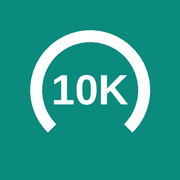
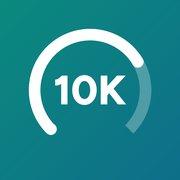
Km seguidos más largos por tramo e icono nuevo
- La tirada más larga cuenta el tramo continuo más largo, no el total con descansos.
- Icono nuevo en el estilo de la app (archivos con nombre nuevo para que se actualice).

Claude-Session: https://claude.ai/code/session_012DkRa5bvT71AFwEtgB1tVc

diff --git a/chica.html b/chica.html
@@ -8,8 +8,8 @@
 <meta name="mobile-web-app-capable" content="yes">
 <meta name="apple-mobile-web-app-status-bar-style" content="default">
 <meta name="theme-color" content="#f3f5f4">
-<link rel="apple-touch-icon" href="icon-180.png">
-<link rel="icon" href="icon-180.png">
+<link rel="apple-touch-icon" href="icon-v3-180.png">
+<link rel="icon" href="icon-v3-180.png">
 <link rel="manifest" href="manifest-chica.webmanifest">
 <script>window.__OCR_LOCAL=true;</script>
 <style>:root{padding-top:env(safe-area-inset-top,0px);padding-bottom:env(safe-area-inset-bottom,0px)}</style>
@@ -631,7 +631,7 @@ function computeStats(C,today){
       if(log.done){
         var km=num(log.km)||I.target, time=num(log.pace)*km;
         S.runs.push({date:s.date,kind:s.kind,slot:s.slot,km:km,time:time,pace:time>0?time/km:0,hr:num(log.hr),easy:isEasy(I.t)});
-        S.kmTot+=km;if(km>S.longest)S.longest=km;
+        S.kmTot+=km;var ck=contKm(log,I);if(ck>S.longest)S.longest=ck;
         if(time>0){S.secTot+=time;S.kmTime+=km;var p=time/km;if(!S.bestPace||p<S.bestPace)S.bestPace=p;}
       }
     }
@@ -643,18 +643,25 @@ function computeStats(C,today){
     if(bs){
       var BI=C.info[bs.id],bl=state.logs[bs.id]||{};
       S.longBase.push(bs.base.km);S.longTarget.push(BI.target);
-      S.longDone.push(bl.done?(num(bl.km)||BI.target):null);
+      S.longDone.push(bl.done?contKm(bl,BI):null);
     }else{S.longBase.push(null);S.longTarget.push(null);S.longDone.push(null);}
   }
   return S;
 }
 
+/* Distancia continua más larga de una carrera: con tramos, el tramo más largo; si no, el total */
+function contKm(log,I){
+  var T=segTotals(log);
+  if(T.n>=2){var mx=0;T.rows.forEach(function(r){if(r.km>mx)mx=r.km;});return mx;}
+  return num(log.km)||(I?I.target:0);
+}
+function contPlanned(I){return BLK[I.t]?BLK[I.t].km:I.target;}
 function readiness(C,today){
   var projBest=0,bestDone=0;
   SESSIONS.forEach(function(s){
     if(s.kind!=='run')return;
     var I=C.info[s.id],log=state.logs[s.id]||{};
-    var km=I.status==='done'?(num(log.km)||I.target):(I.status==='pending'?I.target:0);
+    var km=I.status==='done'?contKm(log,I):(I.status==='pending'?contPlanned(I):0);
     if(km>projBest)projBest=km;
     if(I.status==='done'&&km>bestDone)bestDone=km;
   });
@@ -1088,7 +1095,7 @@ function todayView(C,today){
   var dl=Math.max(0,diffDays(today,RACE)),tot=diffDays(START,RACE);
   h+='<div class="minis">';
   h+='<div class="mini">'+arc(78,7,ag.sess?ag.sessDone/ag.sess:0,C_TEAL,C_LINE,0.8,'<b>'+ag.sessDone+'/'+ag.sess+'</b>')+'<span>Sesiones<br>de la semana</span></div>';
-  h+='<div class="mini">'+arc(78,7,R.bestDone/10,C_VIOLET,C_LINE,0.8,'<b>'+fmtKm(R.bestDone)+'</b>')+'<span>Km más largos<br>de 10</span></div>';
+  h+='<div class="mini">'+arc(78,7,R.bestDone/10,C_VIOLET,C_LINE,0.8,'<b>'+fmtKm(R.bestDone)+'</b>')+'<span>Km seguidos<br>más largos</span></div>';
   h+='<div class="mini">'+arc(78,7,1-dl/tot,C_CORAL,C_LINE,0.8,'<b>'+dl+'</b>')+'<span>Días<br>para el 10K</span></div>';
   h+='</div></div>';
   var nx=nextSession(today);
@@ -1250,7 +1257,7 @@ function youView(C,today){
   h+='</div>';
   var labels=[];for(var i=0;i<WEEKS.length;i++)labels.push(String(i+1));
   h+='<div class="card"><h2>Km por semana</h2>'+barChart(labels,S.weekPlan,S.weekDone,curWeek(today))+'<div class="legend"><span><i style="background:'+C_TEAL2+'"></i>Previsto</span><span><i style="background:'+C_TEAL+'"></i>Hecho</span></div></div>';
-  h+='<div class="card"><h2>Tirada larga</h2>'+lineChart({title:'Tirada larga',labels:labels,yMin:0,yMax:12,yFmt:function(v){return Math.round(v);},hLines:[{y:10,label:'10K'}],
+  h+='<div class="card"><h2>Km seguidos en la tirada larga</h2>'+lineChart({title:'Tirada larga',labels:labels,yMin:0,yMax:12,yFmt:function(v){return Math.round(v);},hLines:[{y:10,label:'10K'}],
     series:[{pts:S.longTarget,color:C_FAINT,dash:true,noDots:true},{pts:S.longDone,color:C_VIOLET}]})+'<div class="legend"><span><i style="background:'+C_FAINT+'"></i>Prevista</span><span><i style="background:'+C_VIOLET+'"></i>Hecha</span></div></div>';
   if(S.runs.length){
     h+='<details class="card guide"><summary>Historial de carreras</summary><table style="margin-top:10px"><tr><th>Día</th><th>Km</th><th>Ritmo</th><th>FC</th></tr>';

diff --git a/chico.html b/chico.html
@@ -8,8 +8,8 @@
 <meta name="mobile-web-app-capable" content="yes">
 <meta name="apple-mobile-web-app-status-bar-style" content="default">
 <meta name="theme-color" content="#f3f5f4">
-<link rel="apple-touch-icon" href="icon-180.png">
-<link rel="icon" href="icon-180.png">
+<link rel="apple-touch-icon" href="icon-v3-180.png">
+<link rel="icon" href="icon-v3-180.png">
 <link rel="manifest" href="manifest-chico.webmanifest">
 <script>window.__OCR_LOCAL=true;</script>
 <style>:root{padding-top:env(safe-area-inset-top,0px);padding-bottom:env(safe-area-inset-bottom,0px)}</style>
@@ -631,7 +631,7 @@ function computeStats(C,today){
       if(log.done){
         var km=num(log.km)||I.target, time=num(log.pace)*km;
         S.runs.push({date:s.date,kind:s.kind,slot:s.slot,km:km,time:time,pace:time>0?time/km:0,hr:num(log.hr),easy:isEasy(I.t)});
-        S.kmTot+=km;if(km>S.longest)S.longest=km;
+        S.kmTot+=km;var ck=contKm(log,I);if(ck>S.longest)S.longest=ck;
         if(time>0){S.secTot+=time;S.kmTime+=km;var p=time/km;if(!S.bestPace||p<S.bestPace)S.bestPace=p;}
       }
     }
@@ -643,18 +643,25 @@ function computeStats(C,today){
     if(bs){
       var BI=C.info[bs.id],bl=state.logs[bs.id]||{};
       S.longBase.push(bs.base.km);S.longTarget.push(BI.target);
-      S.longDone.push(bl.done?(num(bl.km)||BI.target):null);
+      S.longDone.push(bl.done?contKm(bl,BI):null);
     }else{S.longBase.push(null);S.longTarget.push(null);S.longDone.push(null);}
   }
   return S;
 }
 
+/* Distancia continua más larga de una carrera: con tramos, el tramo más largo; si no, el total */
+function contKm(log,I){
+  var T=segTotals(log);
+  if(T.n>=2){var mx=0;T.rows.forEach(function(r){if(r.km>mx)mx=r.km;});return mx;}
+  return num(log.km)||(I?I.target:0);
+}
+function contPlanned(I){return BLK[I.t]?BLK[I.t].km:I.target;}
 function readiness(C,today){
   var projBest=0,bestDone=0;
   SESSIONS.forEach(function(s){
     if(s.kind!=='run')return;
     var I=C.info[s.id],log=state.logs[s.id]||{};
-    var km=I.status==='done'?(num(log.km)||I.target):(I.status==='pending'?I.target:0);
+    var km=I.status==='done'?contKm(log,I):(I.status==='pending'?contPlanned(I):0);
     if(km>projBest)projBest=km;
     if(I.status==='done'&&km>bestDone)bestDone=km;
   });
@@ -1088,7 +1095,7 @@ function todayView(C,today){
   var dl=Math.max(0,diffDays(today,RACE)),tot=diffDays(START,RACE);
   h+='<div class="minis">';
   h+='<div class="mini">'+arc(78,7,ag.sess?ag.sessDone/ag.sess:0,C_TEAL,C_LINE,0.8,'<b>'+ag.sessDone+'/'+ag.sess+'</b>')+'<span>Sesiones<br>de la semana</span></div>';
-  h+='<div class="mini">'+arc(78,7,R.bestDone/10,C_VIOLET,C_LINE,0.8,'<b>'+fmtKm(R.bestDone)+'</b>')+'<span>Km más largos<br>de 10</span></div>';
+  h+='<div class="mini">'+arc(78,7,R.bestDone/10,C_VIOLET,C_LINE,0.8,'<b>'+fmtKm(R.bestDone)+'</b>')+'<span>Km seguidos<br>más largos</span></div>';
   h+='<div class="mini">'+arc(78,7,1-dl/tot,C_CORAL,C_LINE,0.8,'<b>'+dl+'</b>')+'<span>Días<br>para el 10K</span></div>';
   h+='</div></div>';
   var nx=nextSession(today);
@@ -1250,7 +1257,7 @@ function youView(C,today){
   h+='</div>';
   var labels=[];for(var i=0;i<WEEKS.length;i++)labels.push(String(i+1));
   h+='<div class="card"><h2>Km por semana</h2>'+barChart(labels,S.weekPlan,S.weekDone,curWeek(today))+'<div class="legend"><span><i style="background:'+C_TEAL2+'"></i>Previsto</span><span><i style="background:'+C_TEAL+'"></i>Hecho</span></div></div>';
-  h+='<div class="card"><h2>Tirada larga</h2>'+lineChart({title:'Tirada larga',labels:labels,yMin:0,yMax:12,yFmt:function(v){return Math.round(v);},hLines:[{y:10,label:'10K'}],
+  h+='<div class="card"><h2>Km seguidos en la tirada larga</h2>'+lineChart({title:'Tirada larga',labels:labels,yMin:0,yMax:12,yFmt:function(v){return Math.round(v);},hLines:[{y:10,label:'10K'}],
     series:[{pts:S.longTarget,color:C_FAINT,dash:true,noDots:true},{pts:S.longDone,color:C_VIOLET}]})+'<div class="legend"><span><i style="background:'+C_FAINT+'"></i>Prevista</span><span><i style="background:'+C_VIOLET+'"></i>Hecha</span></div></div>';
   if(S.runs.length){
     h+='<details class="card guide"><summary>Historial de carreras</summary><table style="margin-top:10px"><tr><th>Día</th><th>Km</th><th>Ritmo</th><th>FC</th></tr>';

diff --git a/src/plantilla.html b/src/plantilla.html
@@ -621,7 +621,7 @@ function computeStats(C,today){
       if(log.done){
         var km=num(log.km)||I.target, time=num(log.pace)*km;
         S.runs.push({date:s.date,kind:s.kind,slot:s.slot,km:km,time:time,pace:time>0?time/km:0,hr:num(log.hr),easy:isEasy(I.t)});
-        S.kmTot+=km;if(km>S.longest)S.longest=km;
+        S.kmTot+=km;var ck=contKm(log,I);if(ck>S.longest)S.longest=ck;
         if(time>0){S.secTot+=time;S.kmTime+=km;var p=time/km;if(!S.bestPace||p<S.bestPace)S.bestPace=p;}
       }
     }
@@ -633,18 +633,25 @@ function computeStats(C,today){
     if(bs){
       var BI=C.info[bs.id],bl=state.logs[bs.id]||{};
       S.longBase.push(bs.base.km);S.longTarget.push(BI.target);
-      S.longDone.push(bl.done?(num(bl.km)||BI.target):null);
+      S.longDone.push(bl.done?contKm(bl,BI):null);
     }else{S.longBase.push(null);S.longTarget.push(null);S.longDone.push(null);}
   }
   return S;
 }
 
+/* Distancia continua más larga de una carrera: con tramos, el tramo más largo; si no, el total */
+function contKm(log,I){
+  var T=segTotals(log);
+  if(T.n>=2){var mx=0;T.rows.forEach(function(r){if(r.km>mx)mx=r.km;});return mx;}
+  return num(log.km)||(I?I.target:0);
+}
+function contPlanned(I){return BLK[I.t]?BLK[I.t].km:I.target;}
 function readiness(C,today){
   var projBest=0,bestDone=0;
   SESSIONS.forEach(function(s){
     if(s.kind!=='run')return;
     var I=C.info[s.id],log=state.logs[s.id]||{};
-    var km=I.status==='done'?(num(log.km)||I.target):(I.status==='pending'?I.target:0);
+    var km=I.status==='done'?contKm(log,I):(I.status==='pending'?contPlanned(I):0);
     if(km>projBest)projBest=km;
     if(I.status==='done'&&km>bestDone)bestDone=km;
   });
@@ -1078,7 +1085,7 @@ function todayView(C,today){
   var dl=Math.max(0,diffDays(today,RACE)),tot=diffDays(START,RACE);
   h+='<div class="minis">';
   h+='<div class="mini">'+arc(78,7,ag.sess?ag.sessDone/ag.sess:0,C_TEAL,C_LINE,0.8,'<b>'+ag.sessDone+'/'+ag.sess+'</b>')+'<span>Sesiones<br>de la semana</span></div>';
-  h+='<div class="mini">'+arc(78,7,R.bestDone/10,C_VIOLET,C_LINE,0.8,'<b>'+fmtKm(R.bestDone)+'</b>')+'<span>Km más largos<br>de 10</span></div>';
+  h+='<div class="mini">'+arc(78,7,R.bestDone/10,C_VIOLET,C_LINE,0.8,'<b>'+fmtKm(R.bestDone)+'</b>')+'<span>Km seguidos<br>más largos</span></div>';
   h+='<div class="mini">'+arc(78,7,1-dl/tot,C_CORAL,C_LINE,0.8,'<b>'+dl+'</b>')+'<span>Días<br>para el 10K</span></div>';
   h+='</div></div>';
   var nx=nextSession(today);
@@ -1240,7 +1247,7 @@ function youView(C,today){
   h+='</div>';
   var labels=[];for(var i=0;i<WEEKS.length;i++)labels.push(String(i+1));
   h+='<div class="card"><h2>Km por semana</h2>'+barChart(labels,S.weekPlan,S.weekDone,curWeek(today))+'<div class="legend"><span><i style="background:'+C_TEAL2+'"></i>Previsto</span><span><i style="background:'+C_TEAL+'"></i>Hecho</span></div></div>';
-  h+='<div class="card"><h2>Tirada larga</h2>'+lineChart({title:'Tirada larga',labels:labels,yMin:0,yMax:12,yFmt:function(v){return Math.round(v);},hLines:[{y:10,label:'10K'}],
+  h+='<div class="card"><h2>Km seguidos en la tirada larga</h2>'+lineChart({title:'Tirada larga',labels:labels,yMin:0,yMax:12,yFmt:function(v){return Math.round(v);},hLines:[{y:10,label:'10K'}],
     series:[{pts:S.longTarget,color:C_FAINT,dash:true,noDots:true},{pts:S.longDone,color:C_VIOLET}]})+'<div class="legend"><span><i style="background:'+C_FAINT+'"></i>Prevista</span><span><i style="background:'+C_VIOLET+'"></i>Hecha</span></div></div>';
   if(S.runs.length){
     h+='<details class="card guide"><summary>Historial de carreras</summary><table style="margin-top:10px"><tr><th>Día</th><th>Km</th><th>Ritmo</th><th>FC</th></tr>';

diff --git a/index.html b/index.html
@@ -1,6 +1,6 @@
 <!DOCTYPE html>
 <html lang="es"><head><meta charset="utf-8"><meta name="viewport" content="width=device-width,initial-scale=1,viewport-fit=cover">
-<title>Plan 10K</title><link rel="icon" href="icon-180.png"><link rel="apple-touch-icon" href="icon-180.png"><meta name="theme-color" content="#f3f5f4">
+<title>Plan 10K</title><link rel="icon" href="icon-v3-180.png"><link rel="apple-touch-icon" href="icon-v3-180.png"><meta name="theme-color" content="#f3f5f4">
 <link href="https://fonts.googleapis.com/css2?family=Figtree:wght@400;600;700&display=swap" rel="stylesheet">
 <style>
 :root{--bg:#f3f5f4;--card:#fff;--ink:#1c2220;--mut:#66716d;--teal:#0b8a7e;--teal2:#d3eeea;--violet:#7a5fc8;color-scheme:light}

diff --git a/src/build.py b/src/build.py
@@ -6,8 +6,8 @@ headextra='''<meta name="apple-mobile-web-app-capable" content="yes">
 <meta name="mobile-web-app-capable" content="yes">
 <meta name="apple-mobile-web-app-status-bar-style" content="default">
 <meta name="theme-color" content="#f3f5f4">
-<link rel="apple-touch-icon" href="icon-180.png">
-<link rel="icon" href="icon-180.png">
+<link rel="apple-touch-icon" href="icon-v3-180.png">
+<link rel="icon" href="icon-v3-180.png">
 <link rel="manifest" href="manifest-%s.webmanifest">
 <script>window.__OCR_LOCAL=true;</script>
 <style>:root{padding-top:env(safe-area-inset-top,0px);padding-bottom:env(safe-area-inset-bottom,0px)}</style>
@@ -16,11 +16,11 @@ for pid,name,f,title in [('chico','Chico','tanaka','Plan 10K Chico'),('chica','C
     s=t.replace('__PROFILE_ID__',pid).replace('__DEFAULT_NAME__',name).replace('__DEFAULT_FORMULA__',f)
     s=s.replace('<title>Plan 10K · 31 dic</title>','<title>'+title+'</title>\n'+headextra%pid,1)
     open(ROOT+'/'+pid+'.html','w',encoding='utf-8').write(s)
-    man={"name":title,"short_name":"10K "+name,"start_url":"./"+pid+".html","scope":"./","display":"standalone","background_color":"#f3f5f4","theme_color":"#0b8a7e","lang":"es","icons":[{"src":"icon-180.png","sizes":"180x180","type":"image/png"},{"src":"icon-512.png","sizes":"512x512","type":"image/png"}]}
+    man={"name":title,"short_name":"10K "+name,"start_url":"./"+pid+".html","scope":"./","display":"standalone","background_color":"#f3f5f4","theme_color":"#0b8a7e","lang":"es","icons":[{"src":"icon-v3-192.png","sizes":"192x192","type":"image/png","purpose":"any"},{"src":"icon-v3-512.png","sizes":"512x512","type":"image/png","purpose":"any"},{"src":"icon-v3-maskable-512.png","sizes":"512x512","type":"image/png","purpose":"maskable"}]}
     open(ROOT+'/manifest-'+pid+'.webmanifest','w').write(json.dumps(man,ensure_ascii=False,indent=1))
 index='''<!DOCTYPE html>
 <html lang="es"><head><meta charset="utf-8"><meta name="viewport" content="width=device-width,initial-scale=1,viewport-fit=cover">
-<title>Plan 10K</title><link rel="icon" href="icon-180.png"><link rel="apple-touch-icon" href="icon-180.png"><meta name="theme-color" content="#f3f5f4">
+<title>Plan 10K</title><link rel="icon" href="icon-v3-180.png"><link rel="apple-touch-icon" href="icon-v3-180.png"><meta name="theme-color" content="#f3f5f4">
 <link href="https://fonts.googleapis.com/css2?family=Figtree:wght@400;600;700&display=swap" rel="stylesheet">
 <style>
 :root{--bg:#f3f5f4;--card:#fff;--ink:#1c2220;--mut:#66716d;--teal:#0b8a7e;--teal2:#d3eeea;--violet:#7a5fc8;color-scheme:light}
